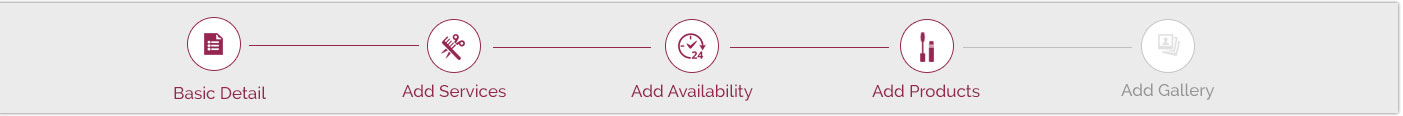
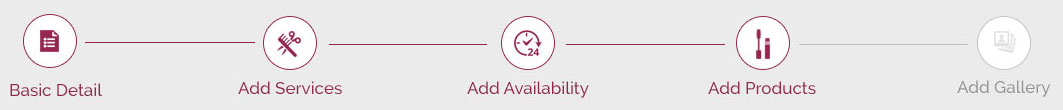
Worked on step4 add products

diff --git a/public/assets/js/bootstrap-filestyle.min.js b/public/assets/js/bootstrap-filestyle.min.js
@@ -1,0 +1,1 @@
+(function($){var nextId=0;var Filestyle=function(element,options){this.options=options;this.$elementFilestyle=[];this.$element=$(element)};Filestyle.prototype={clear:function(){this.$element.val("");this.$elementFilestyle.find(":text").val("");this.$elementFilestyle.find(".badge").remove()},destroy:function(){this.$element.removeAttr("style").removeData("filestyle");this.$elementFilestyle.remove()},disabled:function(value){if(value===true){if(!this.options.disabled){this.$element.attr("disabled","true");this.$elementFilestyle.find("label").attr("disabled","true");this.options.disabled=true}}else{if(value===false){if(this.options.disabled){this.$element.removeAttr("disabled");this.$elementFilestyle.find("label").removeAttr("disabled");this.options.disabled=false}}else{return this.options.disabled}}},buttonBefore:function(value){if(value===true){if(!this.options.buttonBefore){this.options.buttonBefore=true;if(this.options.input){this.$elementFilestyle.remove();this.constructor();this.pushNameFiles()}}}else{if(value===false){if(this.options.buttonBefore){this.options.buttonBefore=false;if(this.options.input){this.$elementFilestyle.remove();this.constructor();this.pushNameFiles()}}}else{return this.options.buttonBefore}}},icon:function(value){if(value===true){if(!this.options.icon){this.options.icon=true;this.$elementFilestyle.find("label").prepend(this.htmlIcon())}}else{if(value===false){if(this.options.icon){this.options.icon=false;this.$elementFilestyle.find(".icon-span-filestyle").remove()}}else{return this.options.icon}}},input:function(value){if(value===true){if(!this.options.input){this.options.input=true;if(this.options.buttonBefore){this.$elementFilestyle.append(this.htmlInput())}else{this.$elementFilestyle.prepend(this.htmlInput())}this.$elementFilestyle.find(".badge").remove();this.pushNameFiles();this.$elementFilestyle.find(".group-span-filestyle").addClass("input-group-btn")}}else{if(value===false){if(this.options.input){this.options.input=false;this.$elementFilestyle.find(":text").remove();var files=this.pushNameFiles();if(files.length>0&&this.options.badge){this.$elementFilestyle.find("label").append(' <span class="badge">'+files.length+"</span>")}this.$elementFilestyle.find(".group-span-filestyle").removeClass("input-group-btn")}}else{return this.options.input}}},size:function(value){if(value!==undefined){var btn=this.$elementFilestyle.find("label"),input=this.$elementFilestyle.find("input");btn.removeClass("btn-lg btn-sm");input.removeClass("input-lg input-sm");if(value!="nr"){btn.addClass("btn-"+value);input.addClass("input-"+value)}}else{return this.options.size}},placeholder:function(value){if(value!==undefined){this.options.placeholder=value;this.$elementFilestyle.find("input").attr("placeholder",value)}else{return this.options.placeholder}},buttonText:function(value){if(value!==undefined){this.options.buttonText=value;this.$elementFilestyle.find("label .buttonText").html(this.options.buttonText)}else{return this.options.buttonText}},buttonName:function(value){if(value!==undefined){this.options.buttonName=value;this.$elementFilestyle.find("label").attr({"class":"btn "+this.options.buttonName})}else{return this.options.buttonName}},iconName:function(value){if(value!==undefined){this.$elementFilestyle.find(".icon-span-filestyle").attr({"class":"icon-span-filestyle "+this.options.iconName})}else{return this.options.iconName}},htmlIcon:function(){if(this.options.icon){return'<span class="icon-span-filestyle '+this.options.iconName+'"></span> '}else{return""}},htmlInput:function(){if(this.options.input){return'<input type="text" class="form-control '+(this.options.size=="nr"?"":"input-"+this.options.size)+'" placeholder="'+this.options.placeholder+'" disabled> '}else{return""}},pushNameFiles:function(){var content="",files=[];if(this.$element[0].files===undefined){files[0]={name:this.$element[0]&&this.$element[0].value}}else{files=this.$element[0].files}for(var i=0;i<files.length;i++){content+=files[i].name.split("\\").pop()+", "}if(content!==""){this.$elementFilestyle.find(":text").val(content.replace(/\, $/g,""))}else{this.$elementFilestyle.find(":text").val("")}return files},constructor:function(){var _self=this,html="",id=_self.$element.attr("id"),files=[],btn="",$label;if(id===""||!id){id="filestyle-"+nextId;_self.$element.attr({id:id});nextId++}btn='<span class="group-span-filestyle '+(_self.options.input?"input-group-btn":"")+'"><label for="'+id+'" class="btn '+_self.options.buttonName+" "+(_self.options.size=="nr"?"":"btn-"+_self.options.size)+'" '+(_self.options.disabled?'disabled="true"':"")+">"+_self.htmlIcon()+'<span class="buttonText">'+_self.options.buttonText+"</span></label></span>";html=_self.options.buttonBefore?btn+_self.htmlInput():_self.htmlInput()+btn;_self.$elementFilestyle=$('<div class="bootstrap-filestyle input-group">'+html+"</div>");_self.$elementFilestyle.find(".group-span-filestyle").attr("tabindex","0").keypress(function(e){if(e.keyCode===13||e.charCode===32){_self.$elementFilestyle.find("label").click();return false}});_self.$element.css({position:"absolute",clip:"rect(0px 0px 0px 0px)"}).attr("tabindex","-1").after(_self.$elementFilestyle);if(_self.options.disabled){_self.$element.attr("disabled","true")}_self.$element.change(function(){var files=_self.pushNameFiles();if(_self.options.input==false&&_self.options.badge){if(_self.$elementFilestyle.find(".badge").length==0){_self.$elementFilestyle.find("label").append(' <span class="badge">'+files.length+"</span>")}else{if(files.length==0){_self.$elementFilestyle.find(".badge").remove()}else{_self.$elementFilestyle.find(".badge").html(files.length)}}}else{_self.$elementFilestyle.find(".badge").remove()}});if(window.navigator.userAgent.search(/firefox/i)>-1){_self.$elementFilestyle.find("label").click(function(){_self.$element.click();return false})}}};var old=$.fn.filestyle;$.fn.filestyle=function(option,value){var get="",element=this.each(function(){if($(this).attr("type")==="file"){var $this=$(this),data=$this.data("filestyle"),options=$.extend({},$.fn.filestyle.defaults,option,typeof option==="object"&&option);if(!data){$this.data("filestyle",(data=new Filestyle(this,options)));data.constructor()}if(typeof option==="string"){get=data[option](value)}}});if(typeof get!==undefined){return get}else{return element}};$.fn.filestyle.defaults={buttonText:"Choose file",iconName:"glyphicon glyphicon-folder-open",buttonName:"btn-default",size:"nr",input:true,badge:true,icon:true,buttonBefore:false,disabled:false,placeholder:""};$.fn.filestyle.noConflict=function(){$.fn.filestyle=old;return this};$(function(){$(".filestyle").each(function(){var $this=$(this),options={input:$this.attr("data-input")==="false"?false:true,icon:$this.attr("data-icon")==="false"?false:true,buttonBefore:$this.attr("data-buttonBefore")==="true"?true:false,disabled:$this.attr("data-disabled")==="true"?true:false,size:$this.attr("data-size"),buttonText:$this.attr("data-buttonText"),buttonName:$this.attr("data-buttonName"),iconName:$this.attr("data-iconName"),badge:$this.attr("data-badge")==="false"?false:true,placeholder:$this.attr("data-placeholder")};$this.filestyle(options)})})})(window.jQuery);

diff --git a/resources/views/auth/add_products.blade.php b/resources/views/auth/add_products.blade.php
@@ -1,7 +1,218 @@
 @extends('layouts.cms_master')
 
+@section('css')
+<style type="text/css">
+.add_prd{background: #fff none repeat scroll 0 0;border-top: 4px solid #952650;-webkit-box-shadow: 0 4px 3px 1px #D4D4D4;
+box-shadow: 0 4px 3px 1px #D4D4D4; float: left; width: 100%; padding: 4% 2%;}
+.ipb_single_prd img{ width: 100%}
+.prd_detail{ background-color: #F3F3F3;padding: 5px 0;margin-top: 5px;}
+.prd_detail p {color: #666;font-size: 14px;font-weight: bold;padding: 5px 0; margin: 0}
+.prd_detail span {font-size: 16px;font-weight: bold;}
+.ipb_single_prd {border-top: 4px solid #952650;-webkit-box-shadow: 0 4px 3px 1px #D4D4D4;box-shadow: 0 4px 3px 1px #D4D4D4; padding: 5px; position: relative; cursor: pointer;}
+.remove_prd {  left: 45%;position: absolute;top: 15px;z-index: 9999;}
+.remove_prd span {color: #fff;font-size: 21px;}
+.prd_desc{ position: absolute; top: 0; height: 96%; overflow: hidden; background-color: rgba(0,0,0,0.5); width: 96%; top: 5px; display: none;padding-top: 55px; padding-bottom: 20px;}
+.prd_desc p {font-size: 14px;   margin: 0 auto;width: 95%;color: #fff; text-align: center; height: 100%; overflow: hidden;}
+.ipb_single_prd:hover .prd_desc{ display: block;}
+
+@media screen and (max-width: 767px){
+	 
+	.prd_desc {
+      height:98%;
+    left: 0;
+      top: 5px;
+    width: 100%;}
+ 
+}
+</style>
+@endsection
+
 @section('content')
-
-
-
+<div id="prf_dashboard_outr">
+	<div id="prf_dashboard_inr">
+		<div id="prf_dashboard_cont">
+			<div class="dash_heading col-md-12 col-sm-12 col-xs-12 padd_top_20px padd_botm_30px">
+				<h3 class="text-uppercase">Complete your profile</h3>	
+			</div>
+		</div>
+	</div>
+</div>
+<div class="prog_bar_outr">
+	<div class="prog_bar_inr">
+		<div class="prog_bar">
+			<div class="web_prog_bar">
+				<img src="http://localhost:8000/assets/images/step4.jpg" alt="step1">
+			</div>
+		</div>
+	</div>
+</div>
+<div class="ibp_dashboard_cont_outr">
+	<div class="ibp_dashboard_cont_inr">
+		<div class="ibp_dashboard_cont">
+			<div class="ibp_add_prds">
+				<div class="col-md-12 col-sm-12 col-xs-12">
+					<form class="add_prd ">
+						<div class="form-group">							 
+							<div class="col-md-12 col-sm-9 col-xs-12">
+								<div class="col-md-6 col-sm-6 col-xs-12">
+									<div class="form-group">
+									    <label>Product Image :</label>
+									    <input type="file" class="filestyle" data-buttonBefore="true" data-icon="false">
+									</div>
+									<div class="form-group">
+									    <label>Product Title :</label>
+									    <input class="form-control" type="text">
+									</div>
+									<div class="form-group">
+									    <label>Product Price :</label>
+									    <input class="form-control" type="text">
+									</div>  
+								</div>
+								<div class="col-md-6 col-sm-6 col-xs-12">
+									<div class="form-group">
+									    <label>Description :</label>
+									   <textarea class="form-control" rows="6"></textarea>
+									  </div>
+								</div>
+								<div class="col-md-2 text-right pull-right col-sm-6 col-xs-12">
+									<button type="button" class="light_red_btn add_btn col-md-12 col-sm-12 col-xs-12">Add</button>
+								</div>	
+							</div>	
+									
+						</div>
+					</form>
+				</div>	
+				<div class="col-md-12 col-sm-12 col-xs-12 prds_listing margin_top_40px">
+					<div class="row padd_left_right_all_zero">
+								<div class="col-md-3 col-sm-3 col-xs-12">
+										<div class="col-md-12 col-sm-12 col-xs-12 ipb_single_prd text-center">
+				 							<img src="/assets/images/home-slider.jpg">
+				 							<div class="col-md-12 col-sm-12 col-xs-12  prd_detail text-center">
+				 								<p>Lorem Ipsum Text</p>
+				 								<span class="color_red">$15</span>
+				 							</div>
+				 							
+				 							<div class="prd_desc col-md-12 col-sm-12 col-xs-12">
+				 								<a href="#" class="remove_prd"><span class="glyphicon glyphicon-remove-sign" aria-hidden="true"></span></a>
+				 								<p>Lorem Ipsum is simply text written on the service page and it is dummy text of the typesetting industry. Lorem Ipsum is simply text written on the service page and it is dummy text of the typesetting industry. </p>
+				 							</div>
+										</div>
+								</div>				
+								<div class="col-md-3 col-sm-3 col-xs-12">
+										<div class="col-md-12 col-sm-12 col-xs-12 ipb_single_prd">
+				 							<img src="/assets/images/ibp-prd-img.jpg">
+				 							<div class="col-md-12 col-sm-12 col-xs-12  prd_detail text-center">
+				 								<p>Lorem Ipsum Text</p>
+				 								<span class="color_red">$15</span>
+				 							</div>
+				 							
+				 							<div class="prd_desc">
+				 								<a href="#" class="remove_prd"><span class="glyphicon glyphicon-remove-sign" aria-hidden="true"></span></a>
+				 								<p>Lorem Ipsum is simply text written on the service page and it is dummy text of the typesetting industry. Lorem Ipsum is simply text written on the service page and it is dummy text of the typesetting industry. </p>
+				 							</div>
+										</div>
+								</div>
+								<div class="col-md-3 col-sm-3 col-xs-12">
+										<div class="col-md-12 col-sm-12 col-xs-12 ipb_single_prd">
+				 							<img src="/assets/images/ibp-prd-img.jpg">
+				 							<div class="col-md-12 col-sm-12 col-xs-12  prd_detail text-center">
+				 								<p>Lorem Ipsum Text</p>
+				 								<span class="color_red">$15</span>
+				 							</div>
+				 							
+				 							<div class="prd_desc">
+				 								<a href="#" class="remove_prd"><span class="glyphicon glyphicon-remove-sign" aria-hidden="true"></span></a>
+				 								<p>Lorem Ipsum is simply text written on the service page and it is dummy text of the typesetting industry. Lorem Ipsum is simply text written on the service page and it is dummy text of the typesetting industry. </p>
+				 							</div>
+									</div>
+								</div> 
+								<div class="col-md-3 col-sm-3 col-xs-12">
+										<div class="col-md-12 col-sm-12 col-xs-12 ipb_single_prd">
+				 							<img src="/assets/images/ibp-prd-img.jpg">
+				 							<div class="col-md-12  col-sm-12 col-xs-12  prd_detail text-center">
+				 								<p>Lorem Ipsum Text</p>
+				 								<span class="color_red">$15</span>
+				 							</div>
+				 							
+				 							<div class="prd_desc">
+				 								<a href="#" class="remove_prd"><span class="glyphicon glyphicon-remove-sign" aria-hidden="true"></span></a>
+				 								<p>Lorem Ipsum is simply text written on the service page and it is dummy text of the typesetting industry. Lorem Ipsum is simply text written on the service page and it is dummy text of the typesetting industry. </p>
+				 							</div>
+									</div>
+								</div> 
+					</div>
+					 <div class="row padd_left_right_all_zero margin_top_40px">
+								<div class="col-md-3 col-sm-3 col-xs-12">
+										<div class="col-md-12 col-sm-12 col-xs-12 ipb_single_prd">
+				 							<img src="/assets/images/ibp-prd-img.jpg">
+				 							<div class="col-md-12 col-sm-12 col-xs-12 prd_detail text-center">
+				 								<p>Lorem Ipsum Text</p>
+				 								<span class="color_red">$15</span>
+				 							</div>
+				 							
+				 							<div class="prd_desc">
+				 								<a href="#" class="remove_prd"><span class="glyphicon glyphicon-remove-sign" aria-hidden="true"></span></a>
+				 								<p>Lorem Ipsum is simply text written on the service page and it is dummy text of the typesetting industry. Lorem Ipsum is simply text written on the service page and it is dummy text of the typesetting industry. </p>
+				 							</div>
+										</div>
+								</div>				
+								<div class="col-md-3 col-sm-3 col-xs-12">
+										<div class="col-md-12 col-sm-12 col-xs-12 ipb_single_prd">
+				 							<img src="/assets/images/ibp-prd-img.jpg">
+				 							<div class="col-md-12 col-sm-12 col-xs-12  prd_detail text-center">
+				 								<p>Lorem Ipsum Text</p>
+				 								<span class="color_red">$15</span>
+				 							</div>
+				 							
+				 							<div class="prd_desc">
+				 								<a href="#" class="remove_prd"><span class="glyphicon glyphicon-remove-sign" aria-hidden="true"></span></a>
+				 								<p>Lorem Ipsum is simply text written on the service page and it is dummy text of the typesetting industry. Lorem Ipsum is simply text written on the service page and it is dummy text of the typesetting industry. </p>
+				 							</div>
+										</div>
+								</div>
+								<div class="col-md-3 col-sm-3 col-xs-12">
+										<div class="col-md-12 col-sm-12 col-xs-12 ipb_single_prd">
+				 							<img src="/assets/images/ibp-prd-img.jpg">
+				 							<div class="col-md-12 col-sm-12 col-xs-12  prd_detail text-center">
+				 								<p>Lorem Ipsum Text</p>
+				 								<span class="color_red">$15</span>
+				 							</div>
+				 							
+				 							<div class="prd_desc">
+				 								<a href="#" class="remove_prd"><span class="glyphicon glyphicon-remove-sign" aria-hidden="true"></span></a>
+				 								<p>Lorem Ipsum is simply text written on the service page and it is dummy text of the typesetting industry. Lorem Ipsum is simply text written on the service page and it is dummy text of the typesetting industry. </p>
+				 							</div>
+									</div>
+								</div> 
+								<div class="col-md-3 col-sm-3 col-xs-12">
+										<div class="col-md-12 col-sm-12 col-xs-12 ipb_single_prd">
+				 							<img src="/assets/images/ibp-prd-img.jpg">
+				 							<div class="col-md-12 col-sm-12 col-xs-12  prd_detail text-center">
+				 								<p>Lorem Ipsum Text</p>
+				 								<span class="color_red">$15</span>
+				 							</div>
+				 							
+				 							<div class="prd_desc">
+				 								<a href="#" class="remove_prd"><span class="glyphicon glyphicon-remove-sign" aria-hidden="true"></span></a>
+				 								<p>Lorem Ipsum is simply text written on the service page and it is dummy text of the typesetting industry. Lorem Ipsum is simply text written on the service page and it is dummy text of the typesetting industry. </p>
+				 							</div>
+									</div>
+								</div> 
+					</div>
+				</div>
+				<div class="col-md-12 col-sm-12 col-xs-12 text-right margin_top_40px">
+					<button type="submit" class="black_btn serv_back_btn">Back</button>
+					<button type="submit" class="light_red_btn serv_cont_btn">Continue</button>
+				</div>
+			</div>
+		</div>
+	</div>
+</div>
+@section('script')
+<script type="text/javascript" src="{{ asset('assets/js/bootstrap-filestyle.min.js') }}"> </script>
+ <script type="text/javascript">
+  $(":file").filestyle({buttonBefore: true});
+  $(":file").filestyle('icon', true);
+ </script>
+ @endsection
 @endsection

diff --git a/resources/views/layouts/header.blade.php b/resources/views/layouts/header.blade.php
@@ -4,7 +4,6 @@
     <meta http-equiv="Content-Type" content="text/html; charset=utf-8" />
     <title>BRC : Home</title>
     <link rel="stylesheet" href="{{ asset('assets/css/bootstrap.css') }}" type="text/css" />
-    <link rel="stylesheet" href="{{ asset('assets/css/bootstrap.min.css') }}" type="text/css" />
     <link rel="stylesheet" href="{{ asset('assets/style.css') }}" type="text/css" />
     <link rel="stylesheet" href="{{ asset('assets/font-awesome.css') }}" type="text/css" />
     <link rel="stylesheet" type="text/css" href="{{ asset('css/jquery.fancybox.css?v=2.1.5') }}" media="screen" />
